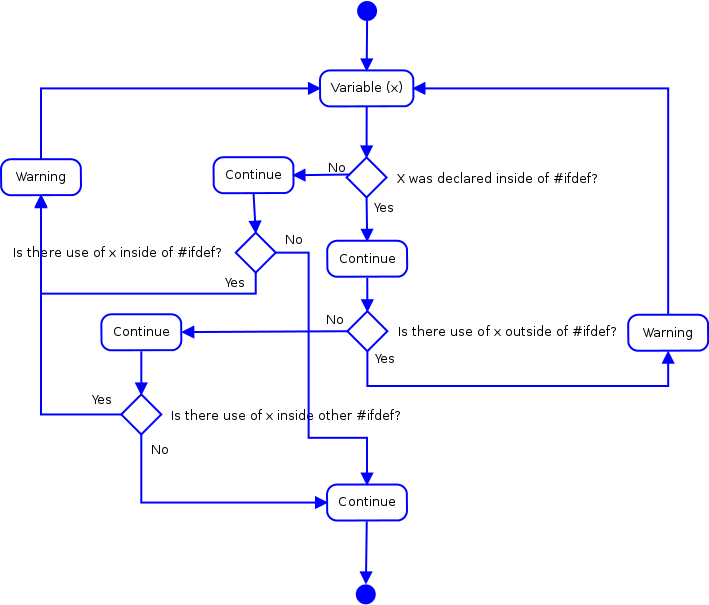
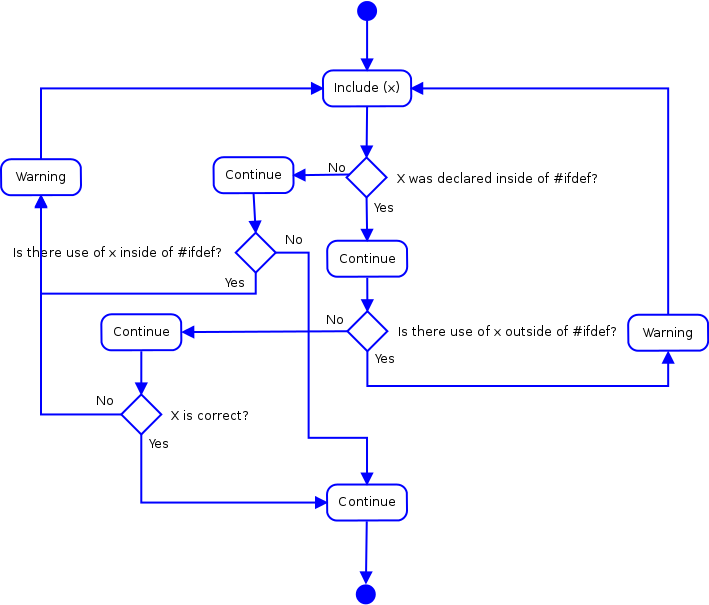
update guideline

diff --git a/guidelines.html b/guidelines.html
@@ -43,8 +43,8 @@
     <div class="jumbotron">
       <div class="container">
         <p class="text-justify">
-	  <strong>Guidelines:</strong> Good pratices in C programs with ifdefs through bugs in real code.<br/>
-	  <strong>Projects:</strong> GCC, Gnome, Hurd, Gimp, Linux, Libreoffice, Firefox, Wireshark<br/>
+	  <strong>Guidelines:</strong> Guidelines in use of #ifdef in C/C++ programs.<br/>
+	  <strong>Projects:</strong> GCC, Gnome, Hurd, Gimp, Inkscape, Linux, Libreoffice, Firefox, Wireshark<br/>
 	  <strong>Bugs/Guidelines description by colors:</strong><br/>
 	  <ul>
 	    <li class="text-primary"><strong>Bug #1:</strong> x = 3; <-> x = 4;</li>
@@ -52,7 +52,7 @@
 	    <li class="text-info"><strong>Bug #3:</strong> #ifdef A int x; #endif <-> int x; #ifdef B #endif</li>
 	    <li class="text-warning"><strong>Bug #4:</strong> function(void) <-> function(int)</li>
 	    <li class="text-danger"><strong>Bug #5:</strong> function() <-> function(3)</li>
-	    <li class="text-primary"><strong>Bug #6:</strong> #ifdef A int x; #endif <-> #ifdef B function(x) #endif</li>
+	    <li class="text-primary"><strong>Bug #6:</strong> #ifdef A include x; #endif <-> y</li>
 	    <li class="text-success"><strong>Bug #7:</strong> #ifdef A int x; #endif <-> int x</li>
 	    <li class="text-info"><strong>Bug #8:</strong> function(x) <-> function(x, y)</li>
 	    <li class="text-warning"><strong>Bug #9:</strong> if { #ifdef A } else { #ifdef A }</li>
@@ -230,7 +230,7 @@
 		<img alt="bug1" src="assets/guidelines/guideline6.png" width="1330" heigth="693">
 		<ol>
 		  <li>
-		    <a href="#" target="_blank">#</a>
+		    <a href="https://bugs.launchpad.net/inkscape/+bug/167782" target="_blank">https://bugs.launchpad.net/inkscape/+bug/167782</a>
 		  </li>
 		</ol>
 	      </div>
